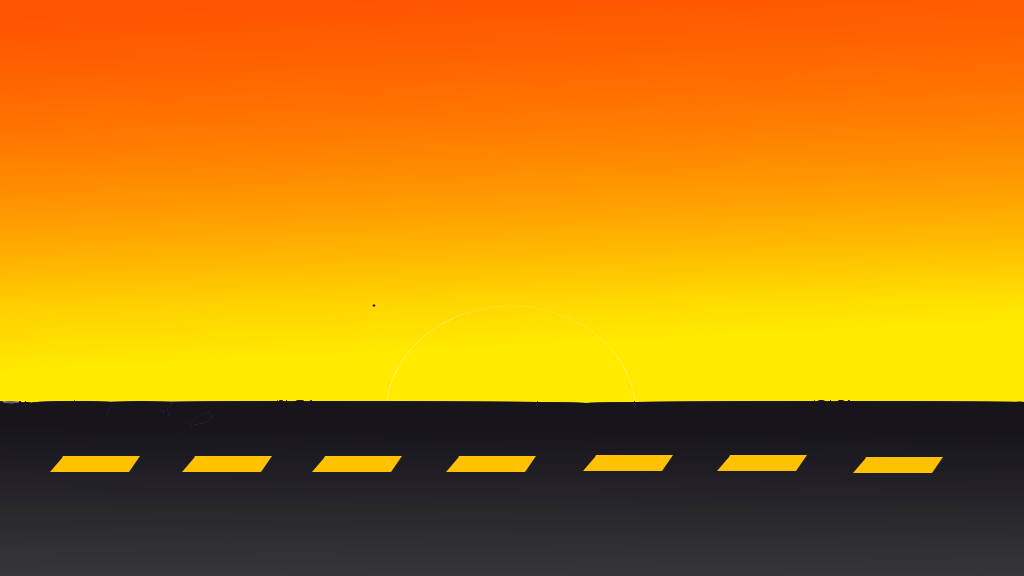
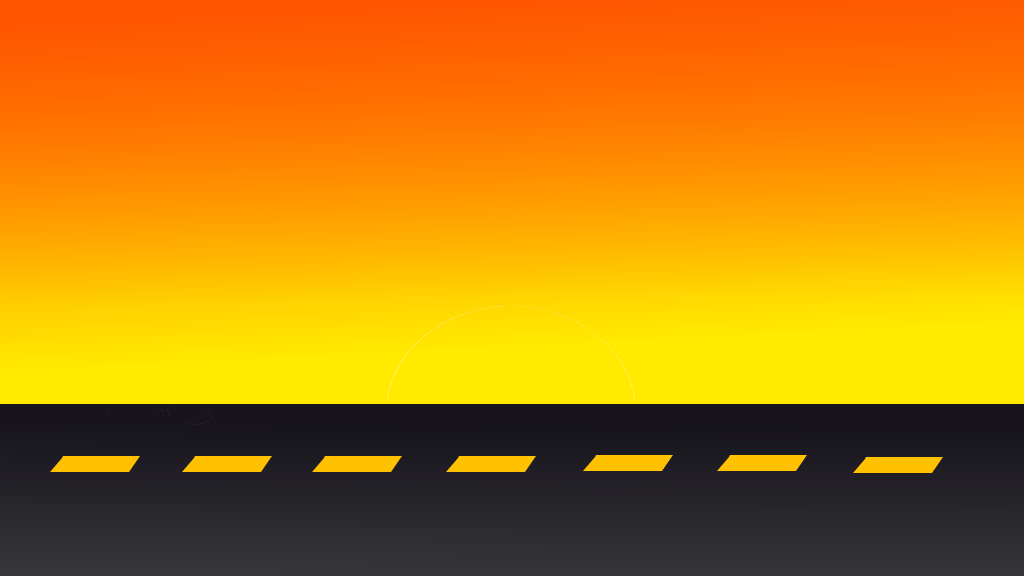
Add moving background

Changed region(s): [[0.0, 0.6875, 1.0, 0.7188]]

diff --git a/static/background.js b/static/background.js
@@ -3,19 +3,70 @@ function Background() {
     this.back = [];
     this.mid = [];
     this.fore = [];
+    this.mod = 0;
+    this.A = [];
+    this.B = [];
+    this.C = [];
+    this.groundY = 405;
 }
 
-Background.prototype.init = function() {
-    for (var i=1; i<=6; i++)
-        this.back.push(document.getElementById('Bg' + i));
-    for (var i=1; i<=6; i++)
-        this.mid.push(document.getElementById('Mg' + (i == 6? 7 : i)));
-    for (var i=0; i<=8; i++)
-        this.fore.push(document.getElementById('Fg' + i));
+Background.prototype.init = function () {
+    for (var i = 1; i <= 6; i++)
+        this.back.push(document.getElementById('bg' + i));
+    for (var i = 1; i <= 8; i++)
+        this.mid.push(document.getElementById('mg' + i));
+    for (var i = 1; i <= 6; i++)
+        this.fore.push(document.getElementById('fg' + (i == 6 ? 7 : i)));
+    for (var i = 0; i < 200; i++) {
+        var ternary = Math.floor(Math.random() * 3);
+        switch (ternary) {
+            case 0:
+                this.A.push({
+                    img: this.back[Math.floor(Math.random() * this.back.length)],
+                    mod: -3,
+                    current: Math.random() * 1024 * 5 - 1024
+                });
+                break;
+            case 1:
+                this.B.push({
+                    img: this.mid[Math.floor(Math.random() * this.mid.length)],
+                    mod: -2,
+                    current: Math.random() * 1024 * 5 - 1024
+                });
+                break;
+            case 2:
+                this.C.push({
+                    img: this.fore[Math.floor(Math.random() * this.fore.length)],
+                    mod: -1,
+                    current: Math.random() * 1024 * 5 - 1024
+                });
+                break;
+        }
+    }
 };
 
-Background.prototype.draw = function() {
+Background.prototype.draw = function () {
+    this.mod++;
     game.ctx.drawImage(document.getElementById('sky'), 0, 0);
+    for (var i=0; i< this.A.length; i++) {
+        var q = this.A[i];
+        q.current += 1 / q.mod;
+        if (q.current < -200) continue;
+        game.ctx.drawImage(q.img, q.current, this.groundY - q.img.height);
+    }
+    for (var i=0; i< this.B.length; i++) {
+        var q = this.B[i];
+        q.current += 1 / q.mod;
+        if (q.current < -200) continue;
+        game.ctx.drawImage(q.img, q.current, this.groundY - q.img.height);
+    }
+    for (var i=0; i< this.C.length; i++) {
+        var q = this.C[i];
+        q.current += 1 / q.mod;
+        if (q.current < -200) continue;
+        game.ctx.drawImage(q.img, q.current, this.groundY - q.img.height);
+    }
+    game.ctx.drawImage(this.fore[0], this.mod / 0.47 - 100, this.groundY - this.fore[0].height);
 };
 
 
